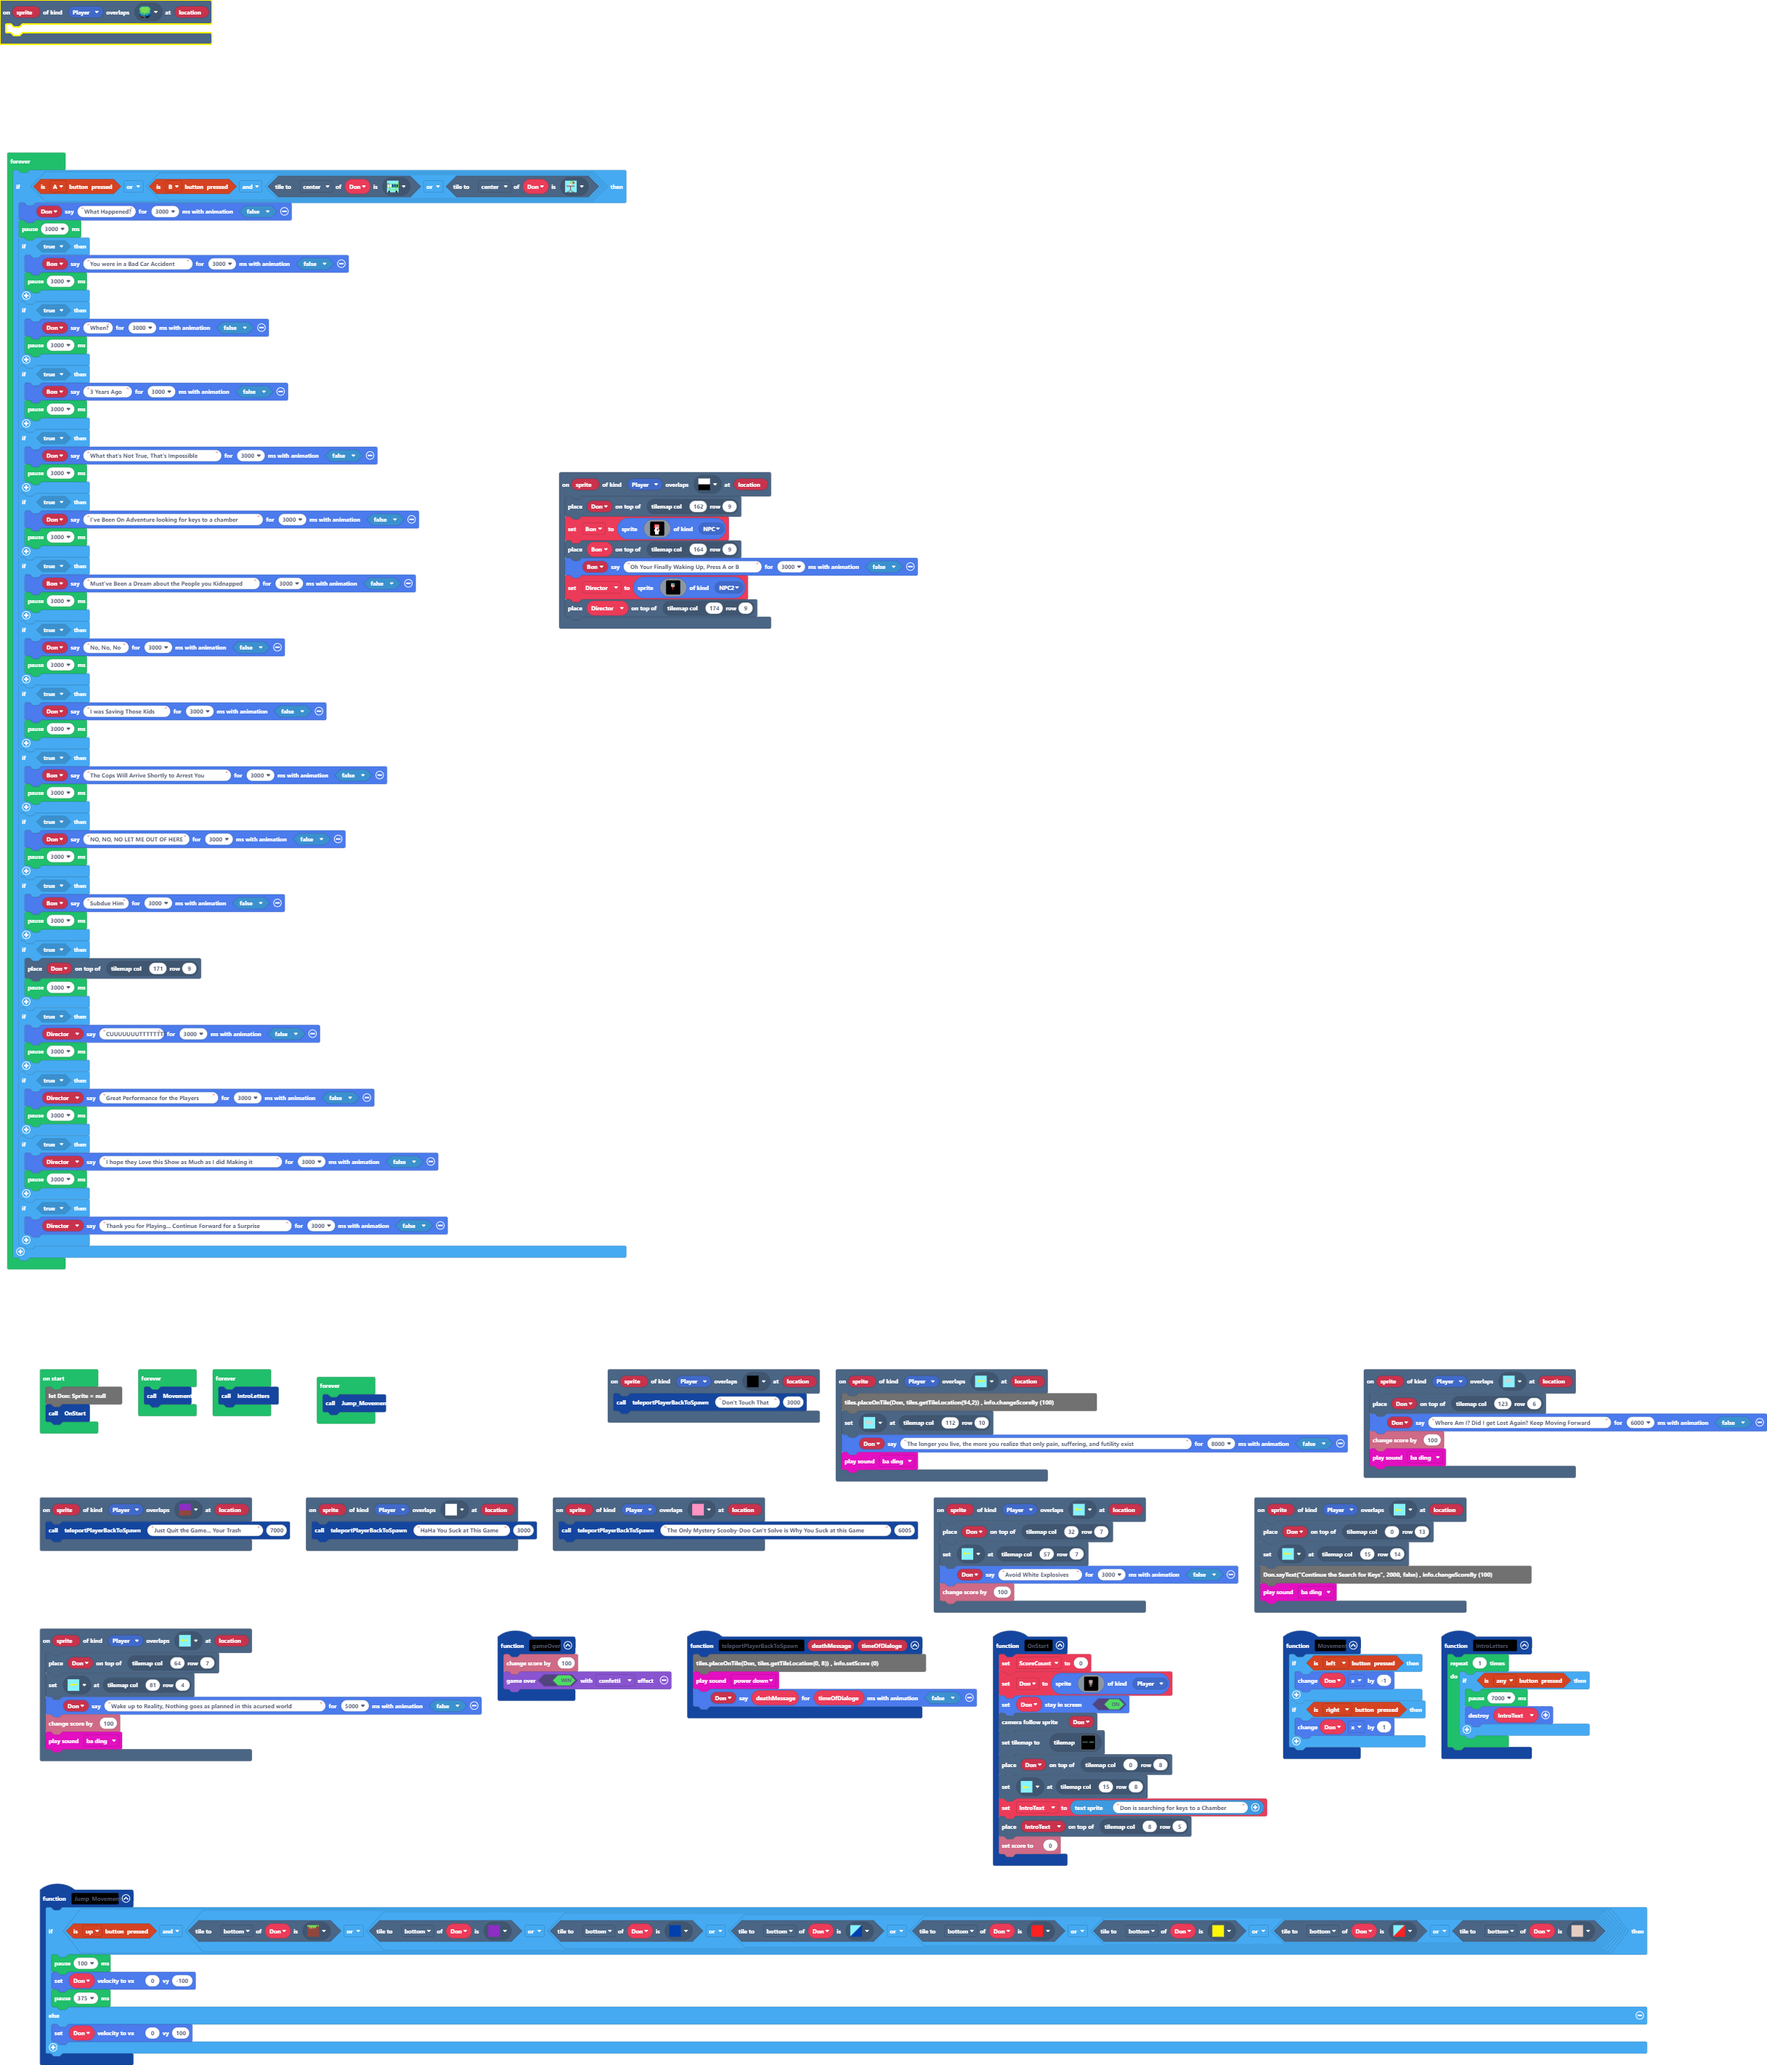
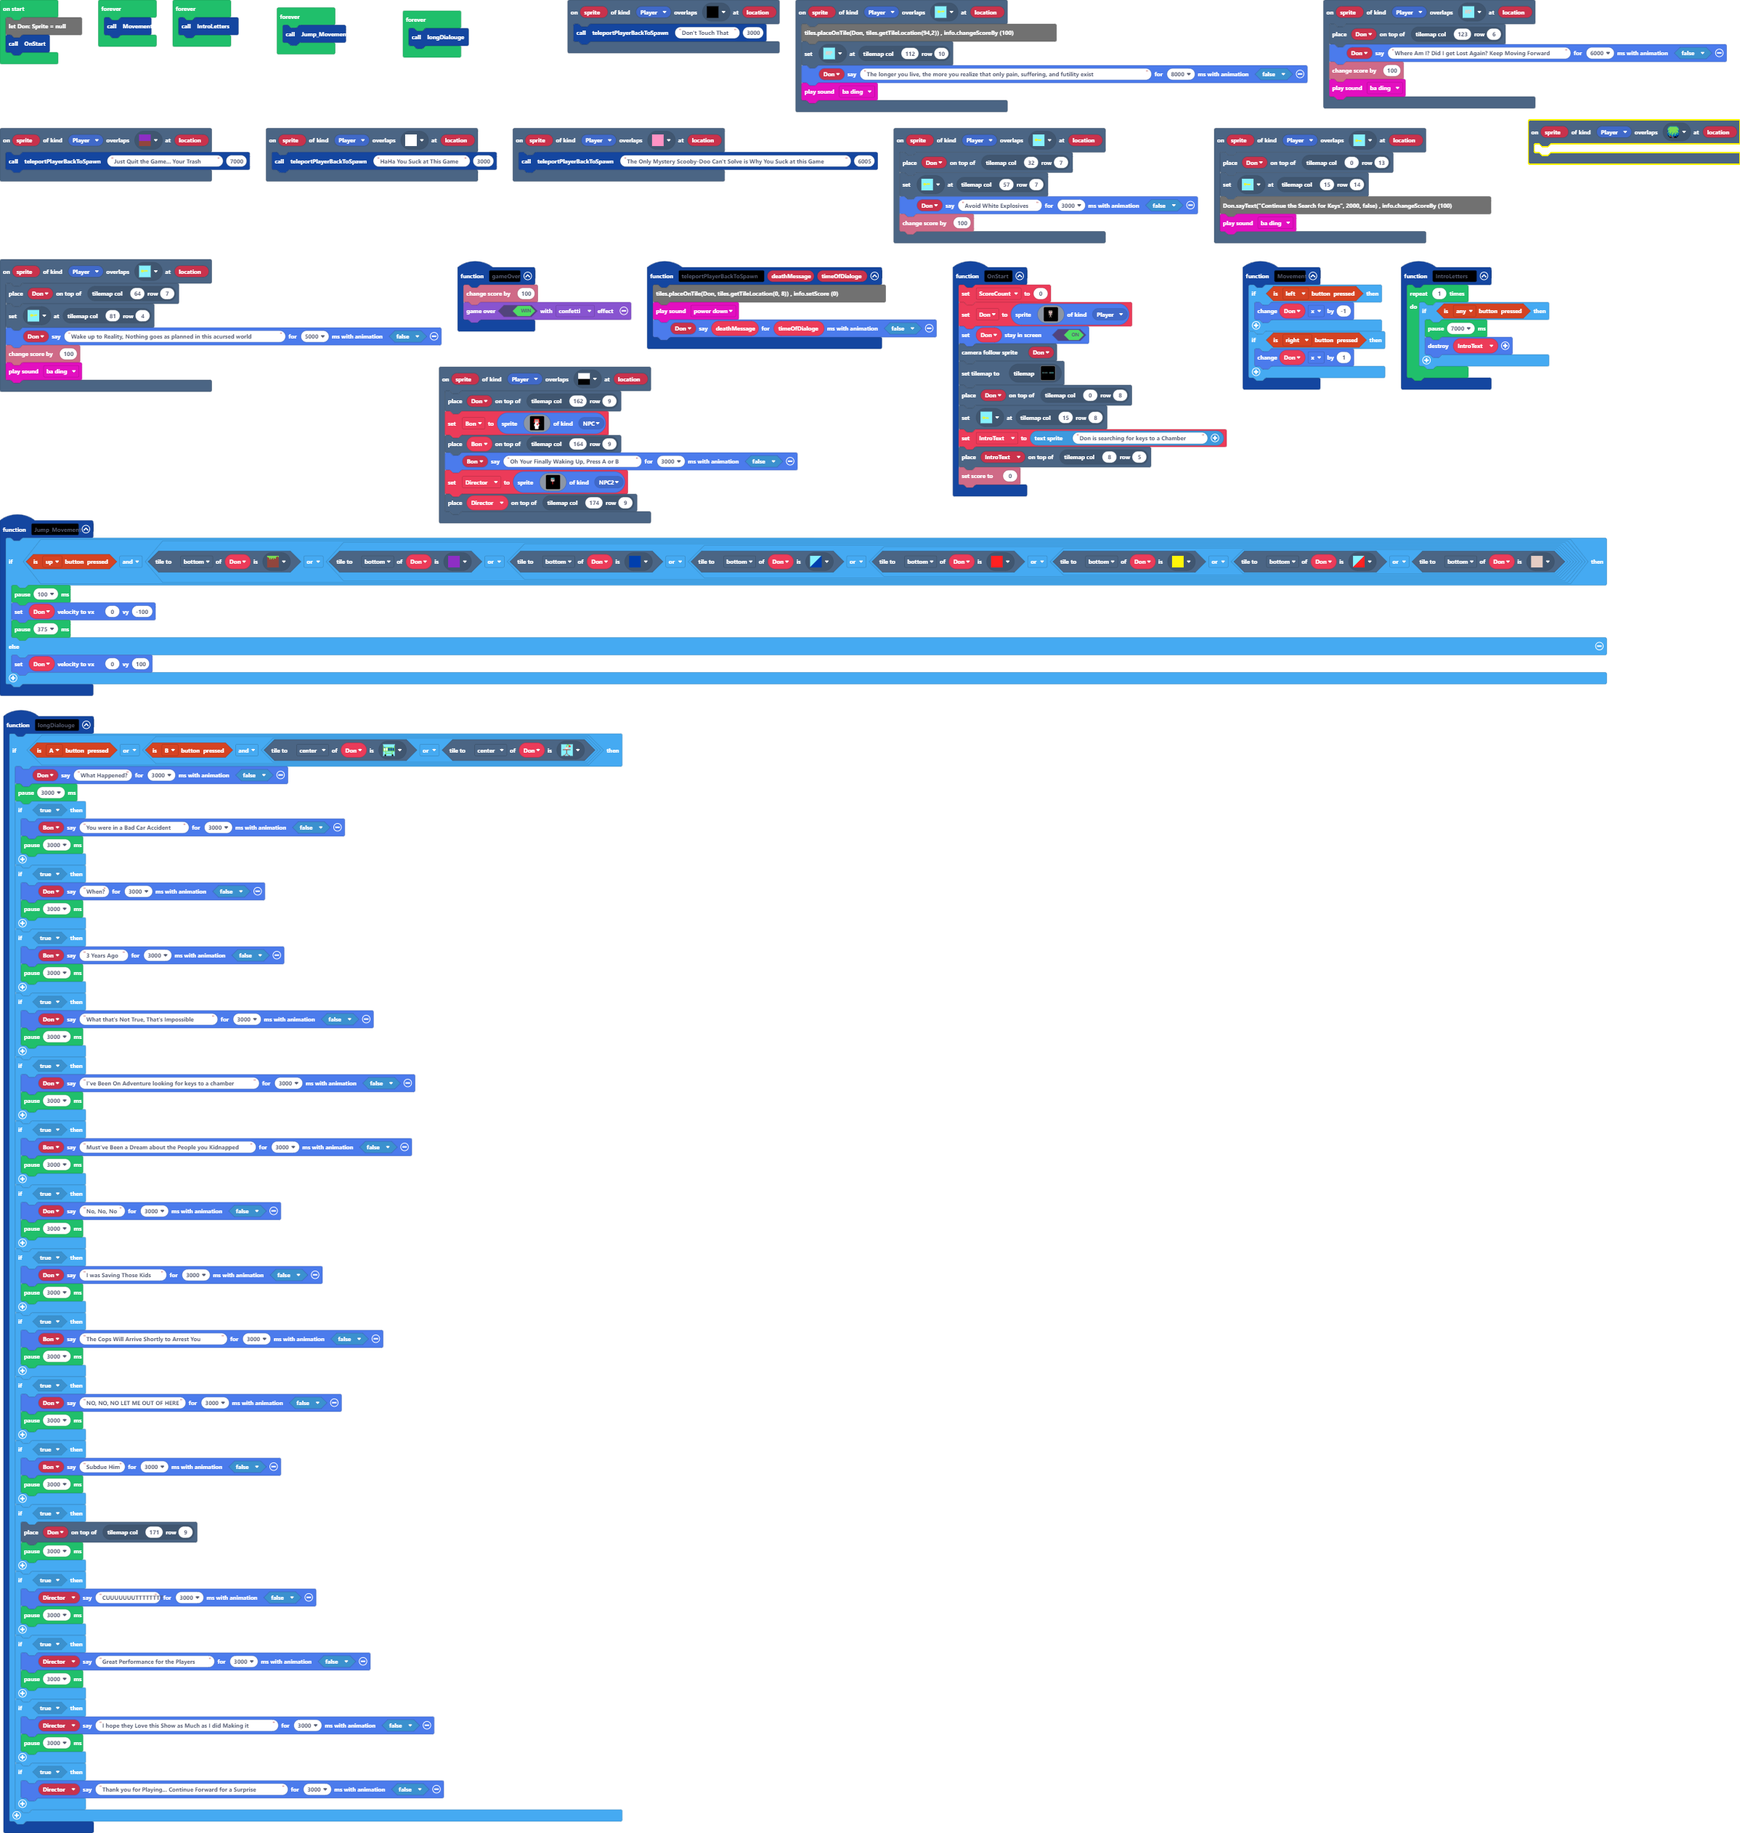
Update main.blocks, main.ts

diff --git a/main.ts b/main.ts
@@ -40,6 +40,75 @@ tiles.setTileAt(tiles.getTileLocation(112, 10), assets.tile`degradingBrain`)
     Don.sayText("The longer you live, the more you realize that only pain, suffering, and futility exist", 8000, false)
     music.baDing.play()
 })
+function longDialouge () {
+    if (controller.A.isPressed() || controller.B.isPressed() && (Don.tileKindAt(TileDirection.Center, assets.tile`bedHospital`) || Don.tileKindAt(TileDirection.Center, assets.tile`tableHospital`))) {
+        Don.sayText("What Happened?", 3000, false)
+        pause(3000)
+        if (true) {
+            Bon.sayText("You were in a Bad Car Accident", 3000, false)
+            pause(3000)
+        }
+        if (true) {
+            Don.sayText("When?", 3000, false)
+            pause(3000)
+        }
+        if (true) {
+            Bon.sayText("3 Years Ago", 3000, false)
+            pause(3000)
+        }
+        if (true) {
+            Don.sayText("What that's Not True, That's Impossible", 3000, false)
+            pause(3000)
+        }
+        if (true) {
+            Don.sayText("I've Been On Adventure looking for keys to a chamber", 3000, false)
+            pause(3000)
+        }
+        if (true) {
+            Bon.sayText("Must've Been a Dream about the People you Kidnapped", 3000, false)
+            pause(3000)
+        }
+        if (true) {
+            Don.sayText("No, No, No", 3000, false)
+            pause(3000)
+        }
+        if (true) {
+            Don.sayText("I was Saving Those Kids", 3000, false)
+            pause(3000)
+        }
+        if (true) {
+            Bon.sayText("The Cops Will Arrive Shortly to Arrest You", 3000, false)
+            pause(3000)
+        }
+        if (true) {
+            Don.sayText("NO, NO, NO LET ME OUT OF HERE", 3000, false)
+            pause(3000)
+        }
+        if (true) {
+            Bon.sayText("Subdue Him", 3000, false)
+            pause(3000)
+        }
+        if (true) {
+            tiles.placeOnTile(Don, tiles.getTileLocation(171, 9))
+            pause(3000)
+        }
+        if (true) {
+            Director.sayText("CUUUUUUUTTTTTTTT", 3000, false)
+            pause(3000)
+        }
+        if (true) {
+            Director.sayText("Great Performance for the Players", 3000, false)
+            pause(3000)
+        }
+        if (true) {
+            Director.sayText("I hope they Love this Show as Much as I did Making it", 3000, false)
+            pause(3000)
+        }
+        if (true) {
+            Director.sayText("Thank you for Playing... Continue Forward for a Surprise", 3000, false)
+        }
+    }
+}
 function gameOver () {
     info.changeScoreBy(100)
     game.over(true, effects.confetti)
@@ -110,75 +179,6 @@ let Bon: Sprite = null
 let Don: Sprite = null
 OnStart()
 forever(function () {
-    if (controller.A.isPressed() || controller.B.isPressed() && (Don.tileKindAt(TileDirection.Center, assets.tile`bedHospital`) || Don.tileKindAt(TileDirection.Center, assets.tile`tableHospital`))) {
-        Don.sayText("What Happened?", 3000, false)
-        pause(3000)
-        if (true) {
-            Bon.sayText("You were in a Bad Car Accident", 3000, false)
-            pause(3000)
-        }
-        if (true) {
-            Don.sayText("When?", 3000, false)
-            pause(3000)
-        }
-        if (true) {
-            Bon.sayText("3 Years Ago", 3000, false)
-            pause(3000)
-        }
-        if (true) {
-            Don.sayText("What that's Not True, That's Impossible", 3000, false)
-            pause(3000)
-        }
-        if (true) {
-            Don.sayText("I've Been On Adventure looking for keys to a chamber", 3000, false)
-            pause(3000)
-        }
-        if (true) {
-            Bon.sayText("Must've Been a Dream about the People you Kidnapped", 3000, false)
-            pause(3000)
-        }
-        if (true) {
-            Don.sayText("No, No, No", 3000, false)
-            pause(3000)
-        }
-        if (true) {
-            Don.sayText("I was Saving Those Kids", 3000, false)
-            pause(3000)
-        }
-        if (true) {
-            Bon.sayText("The Cops Will Arrive Shortly to Arrest You", 3000, false)
-            pause(3000)
-        }
-        if (true) {
-            Don.sayText("NO, NO, NO LET ME OUT OF HERE", 3000, false)
-            pause(3000)
-        }
-        if (true) {
-            Bon.sayText("Subdue Him", 3000, false)
-            pause(3000)
-        }
-        if (true) {
-            tiles.placeOnTile(Don, tiles.getTileLocation(171, 9))
-            pause(3000)
-        }
-        if (true) {
-            Director.sayText("CUUUUUUUTTTTTTTT", 3000, false)
-            pause(3000)
-        }
-        if (true) {
-            Director.sayText("Great Performance for the Players", 3000, false)
-            pause(3000)
-        }
-        if (true) {
-            Director.sayText("I hope they Love this Show as Much as I did Making it", 3000, false)
-            pause(3000)
-        }
-        if (true) {
-            Director.sayText("Thank you for Playing... Continue Forward for a Surprise", 3000, false)
-        }
-    }
-})
-forever(function () {
     Movement()
 })
 forever(function () {
@@ -186,4 +186,7 @@ forever(function () {
 })
 forever(function () {
     Jump_Movement()
+})
+forever(function () {
+    longDialouge()
 })
